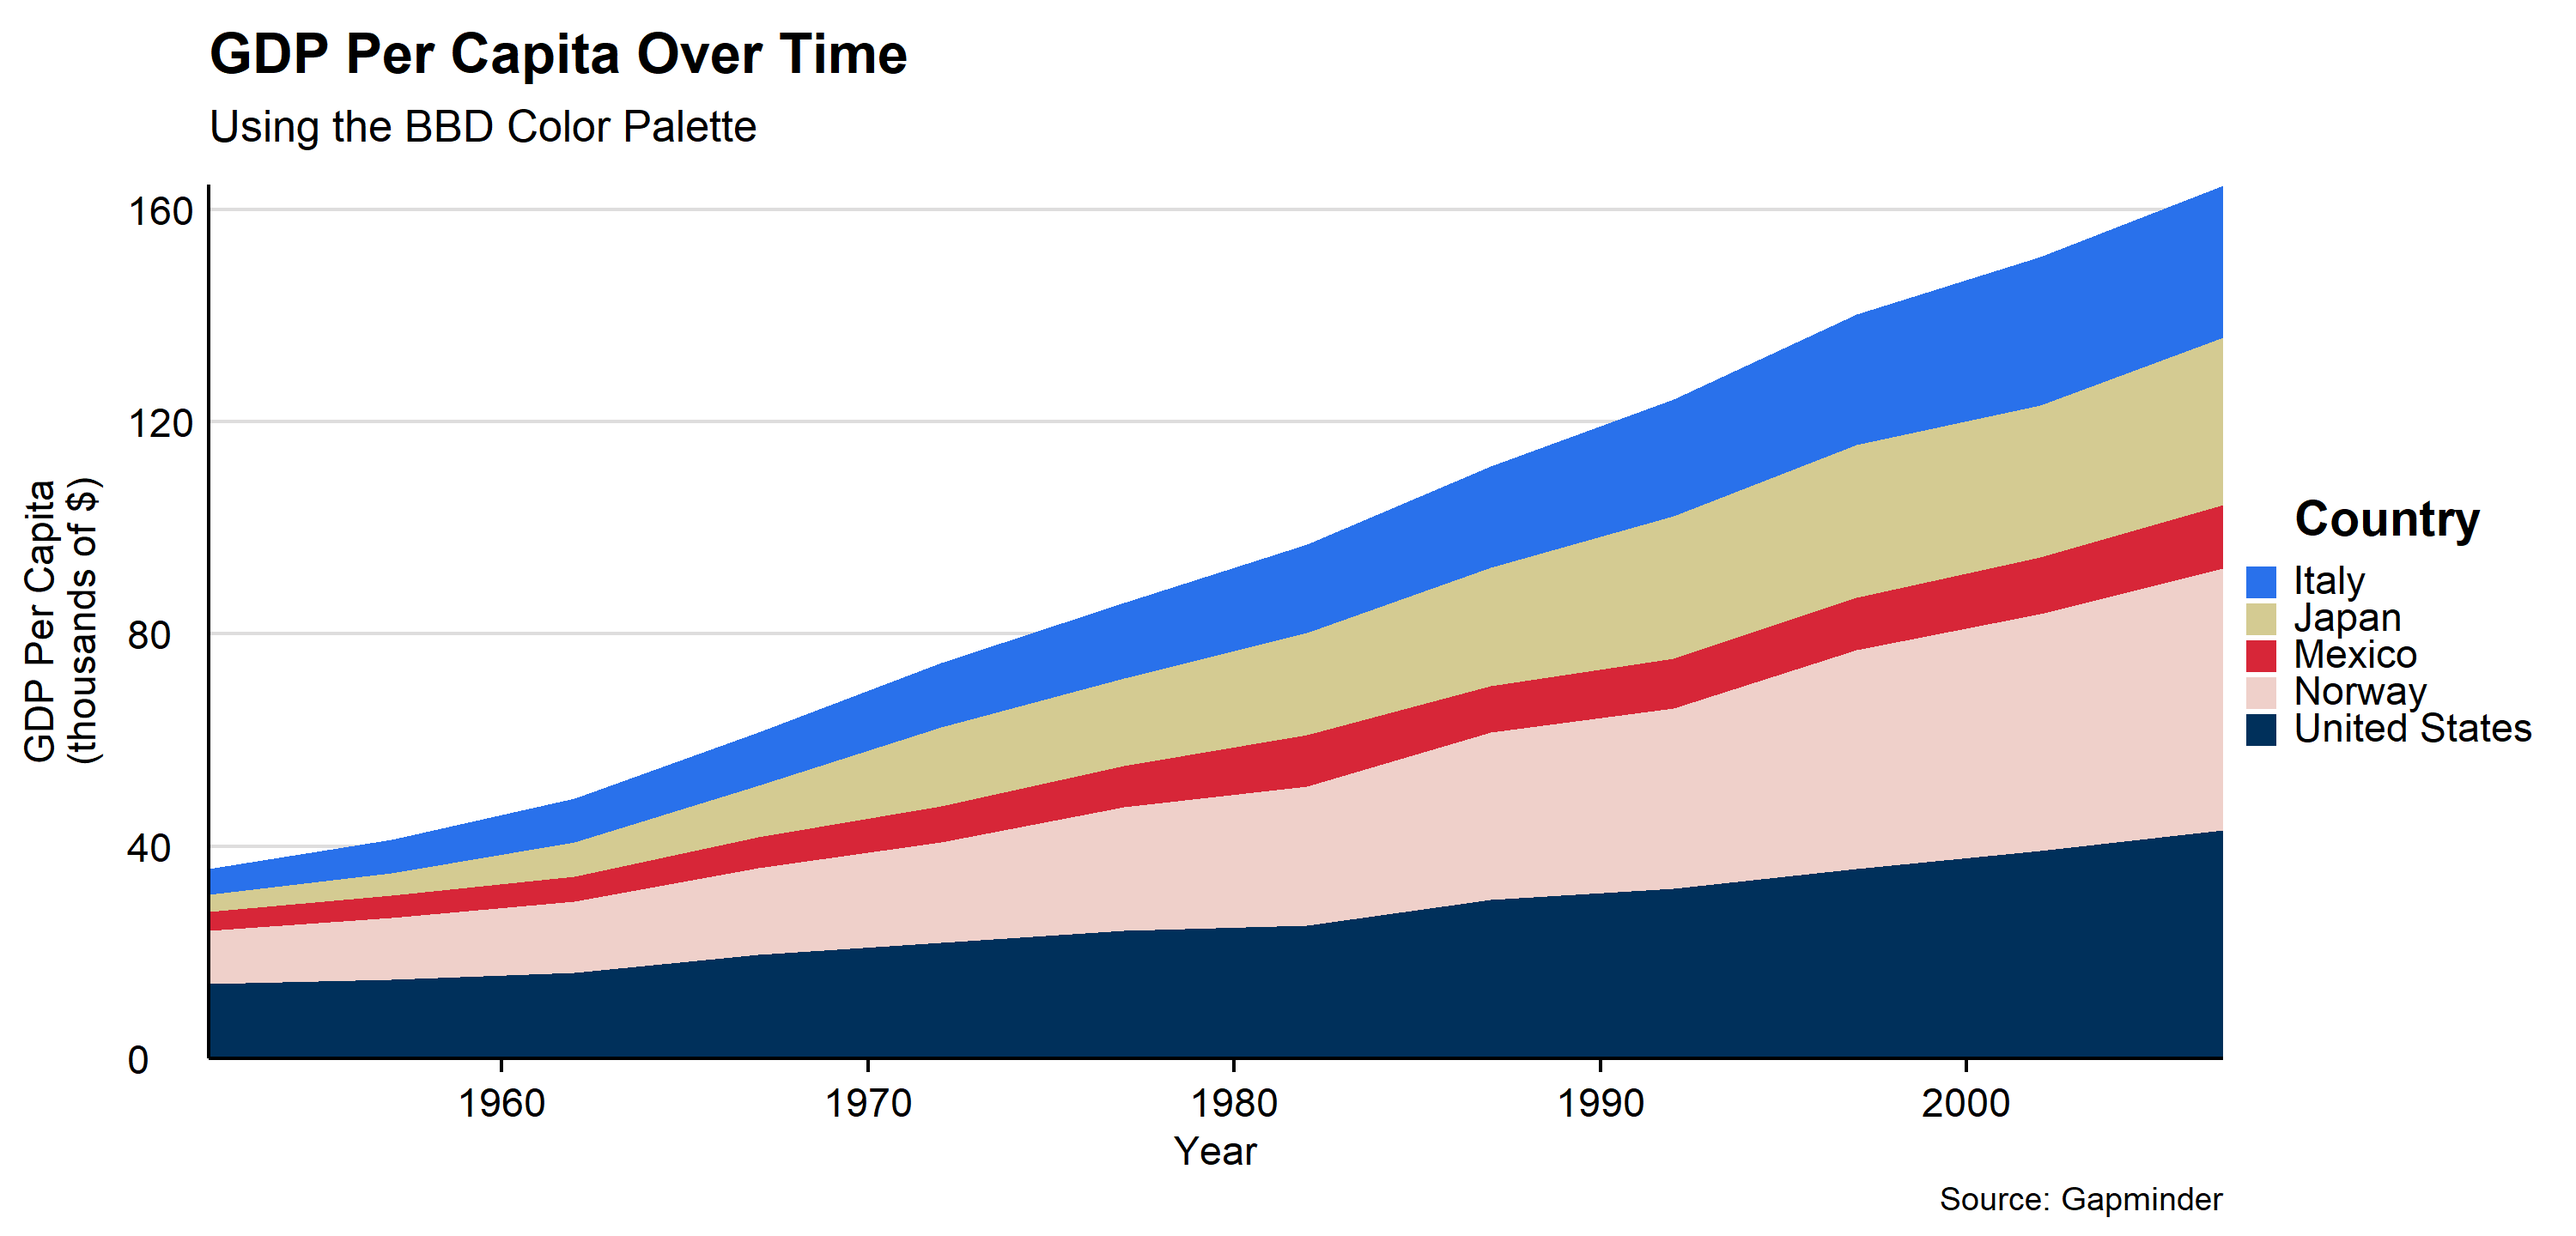
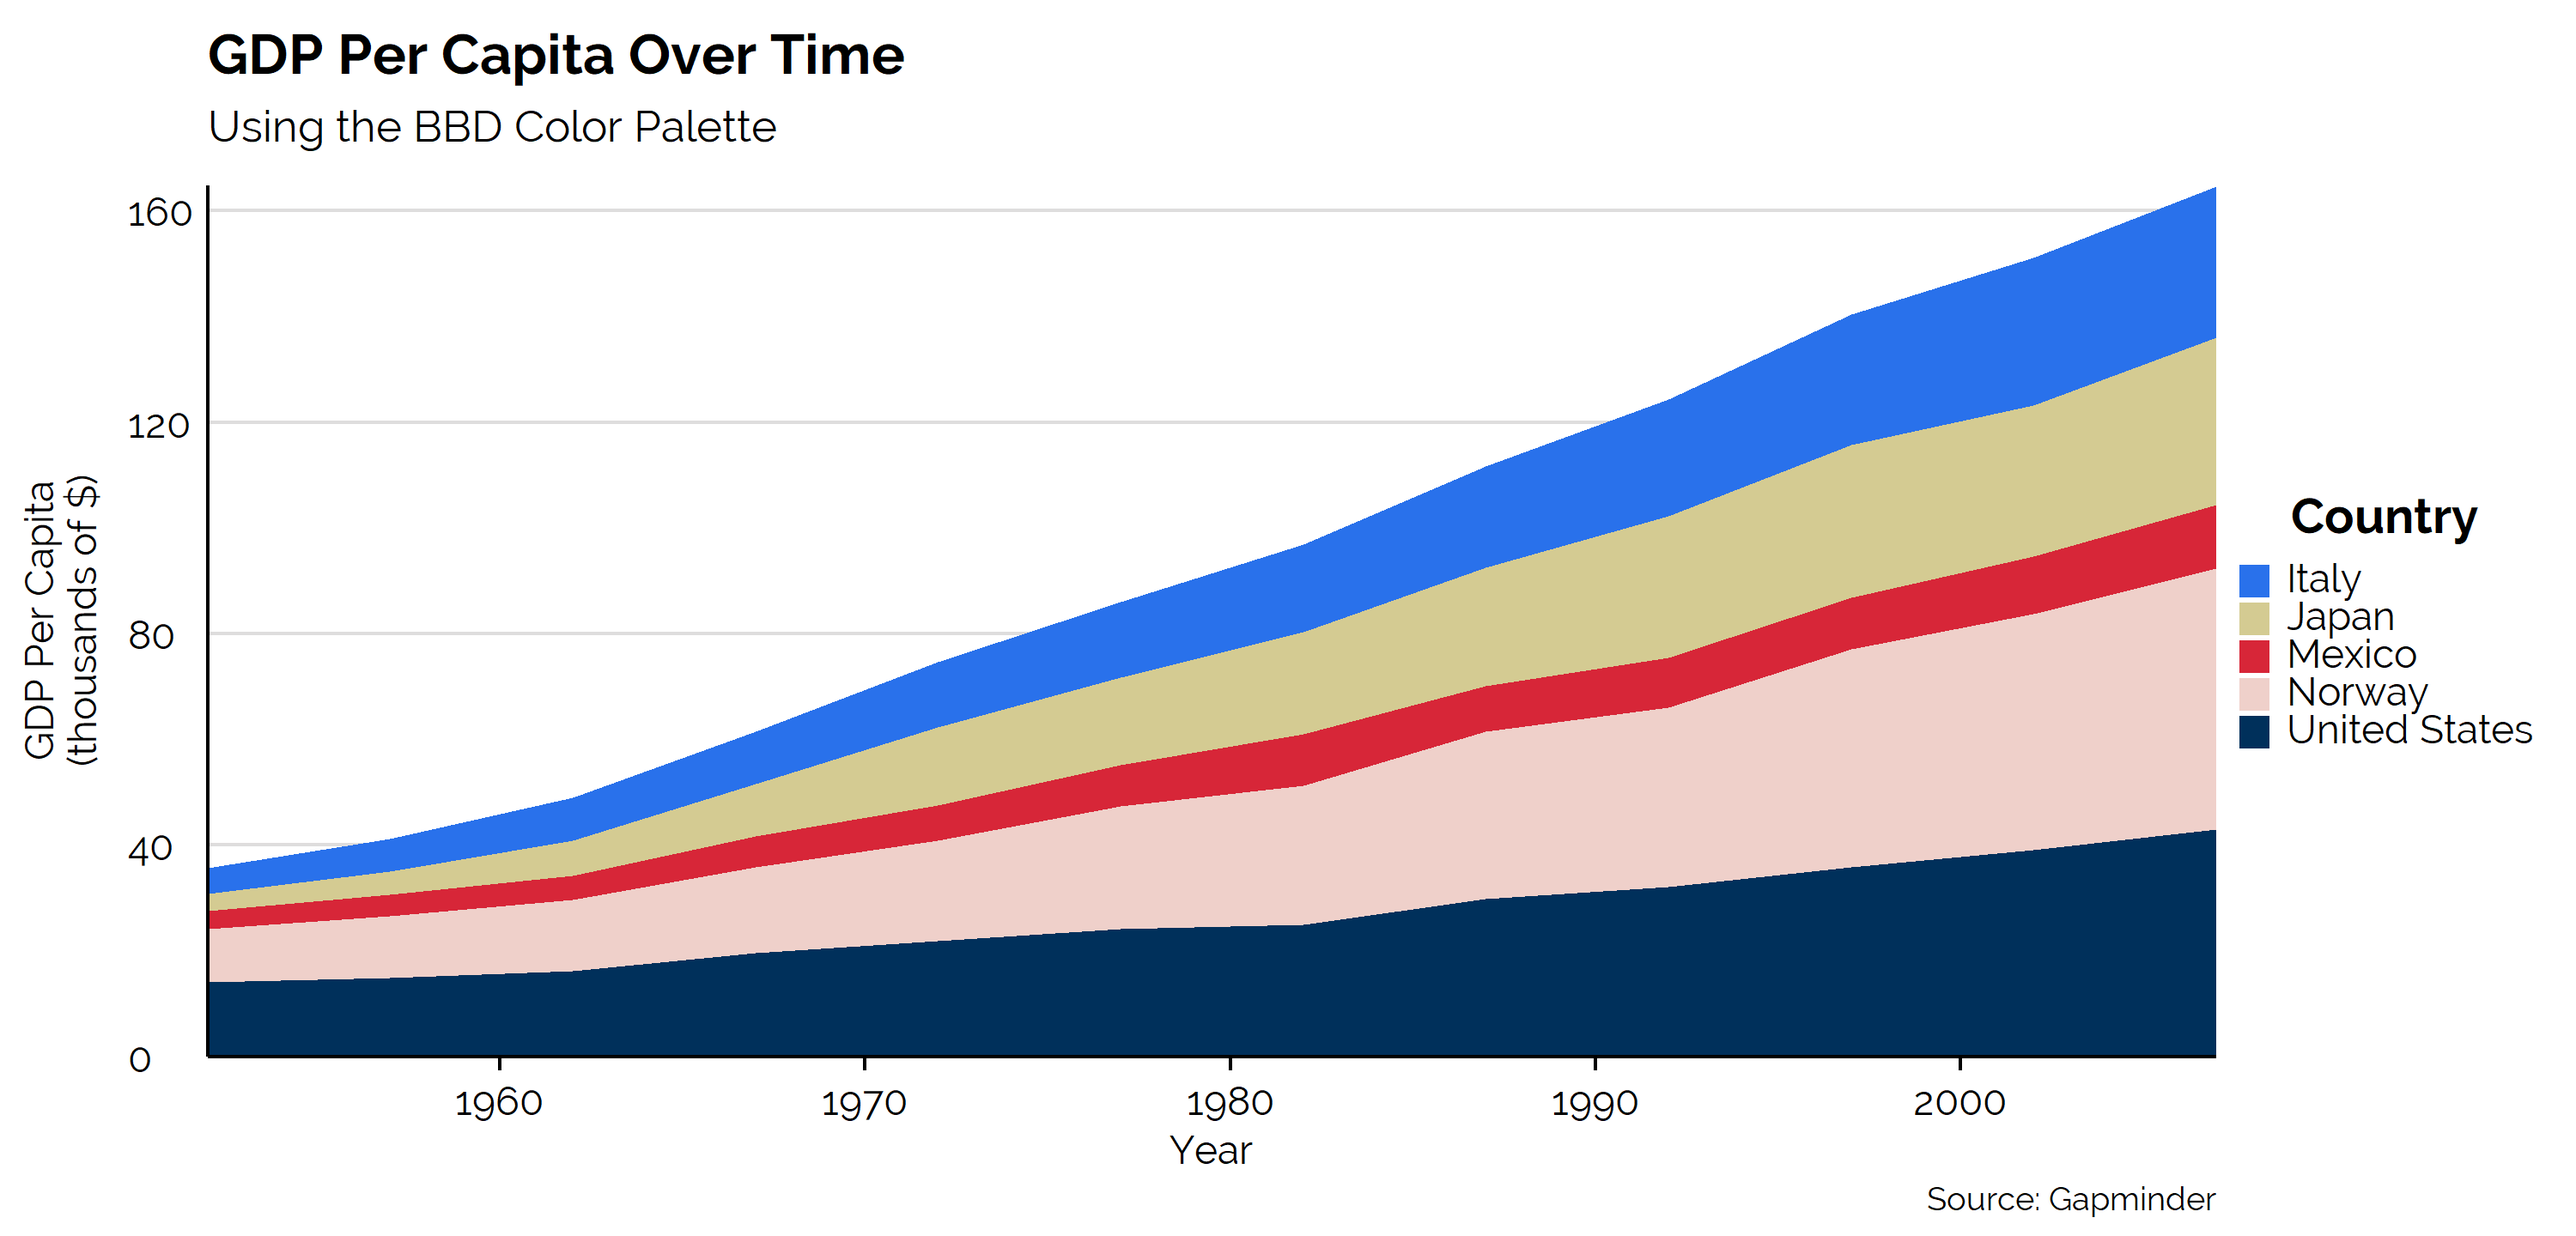
readme fixes

diff --git a/README.md b/README.md
@@ -8,9 +8,18 @@ library(tidyverse)
 library(ggplot2)
 #devtools::install_github("connorrothschild/bbdata")
 library(bbdata)
+library(gapminder)
 
-data <- gapminder::gapminder %>% 
-  dplyr::filter(gapminder::gapminder$country %in% c("Italy", "Japan", "Norway", "Mexico", "United States")) %>%
+bbd_font_install(device = 'win', force = TRUE)
+```
+
+    #> Importing fonts may take a few minutes, depending on the number of fonts and the speed of the system.
+    #> Continue? [y/n] 
+    #> [1] "Raleway is imported! We found 1 instances of Raleway on your system."
+
+``` r
+data <- gapminder %>% 
+  dplyr::filter(gapminder$country %in% c("Italy", "Japan", "Norway", "Mexico", "United States")) %>%
   dplyr::mutate(year = as.Date(paste(year, "-01-01", sep = "", format='%Y-%b-%d')))
 
 set_bbd_theme()
@@ -35,7 +44,7 @@ ggplot(data = data, aes(x = year, y = gdpPercap/1000, fill = country)) +
 #devtools::install_github("clauswilke/ggtext")
 library(ggtext)
 
-data <- gapminder::gapminder %>% 
+data <- gapminder %>% 
   filter(year == 2007) %>% 
   mutate(rank = rank(gdpPercap)) %>% 
   filter(rank > 132 | rank == 1)
